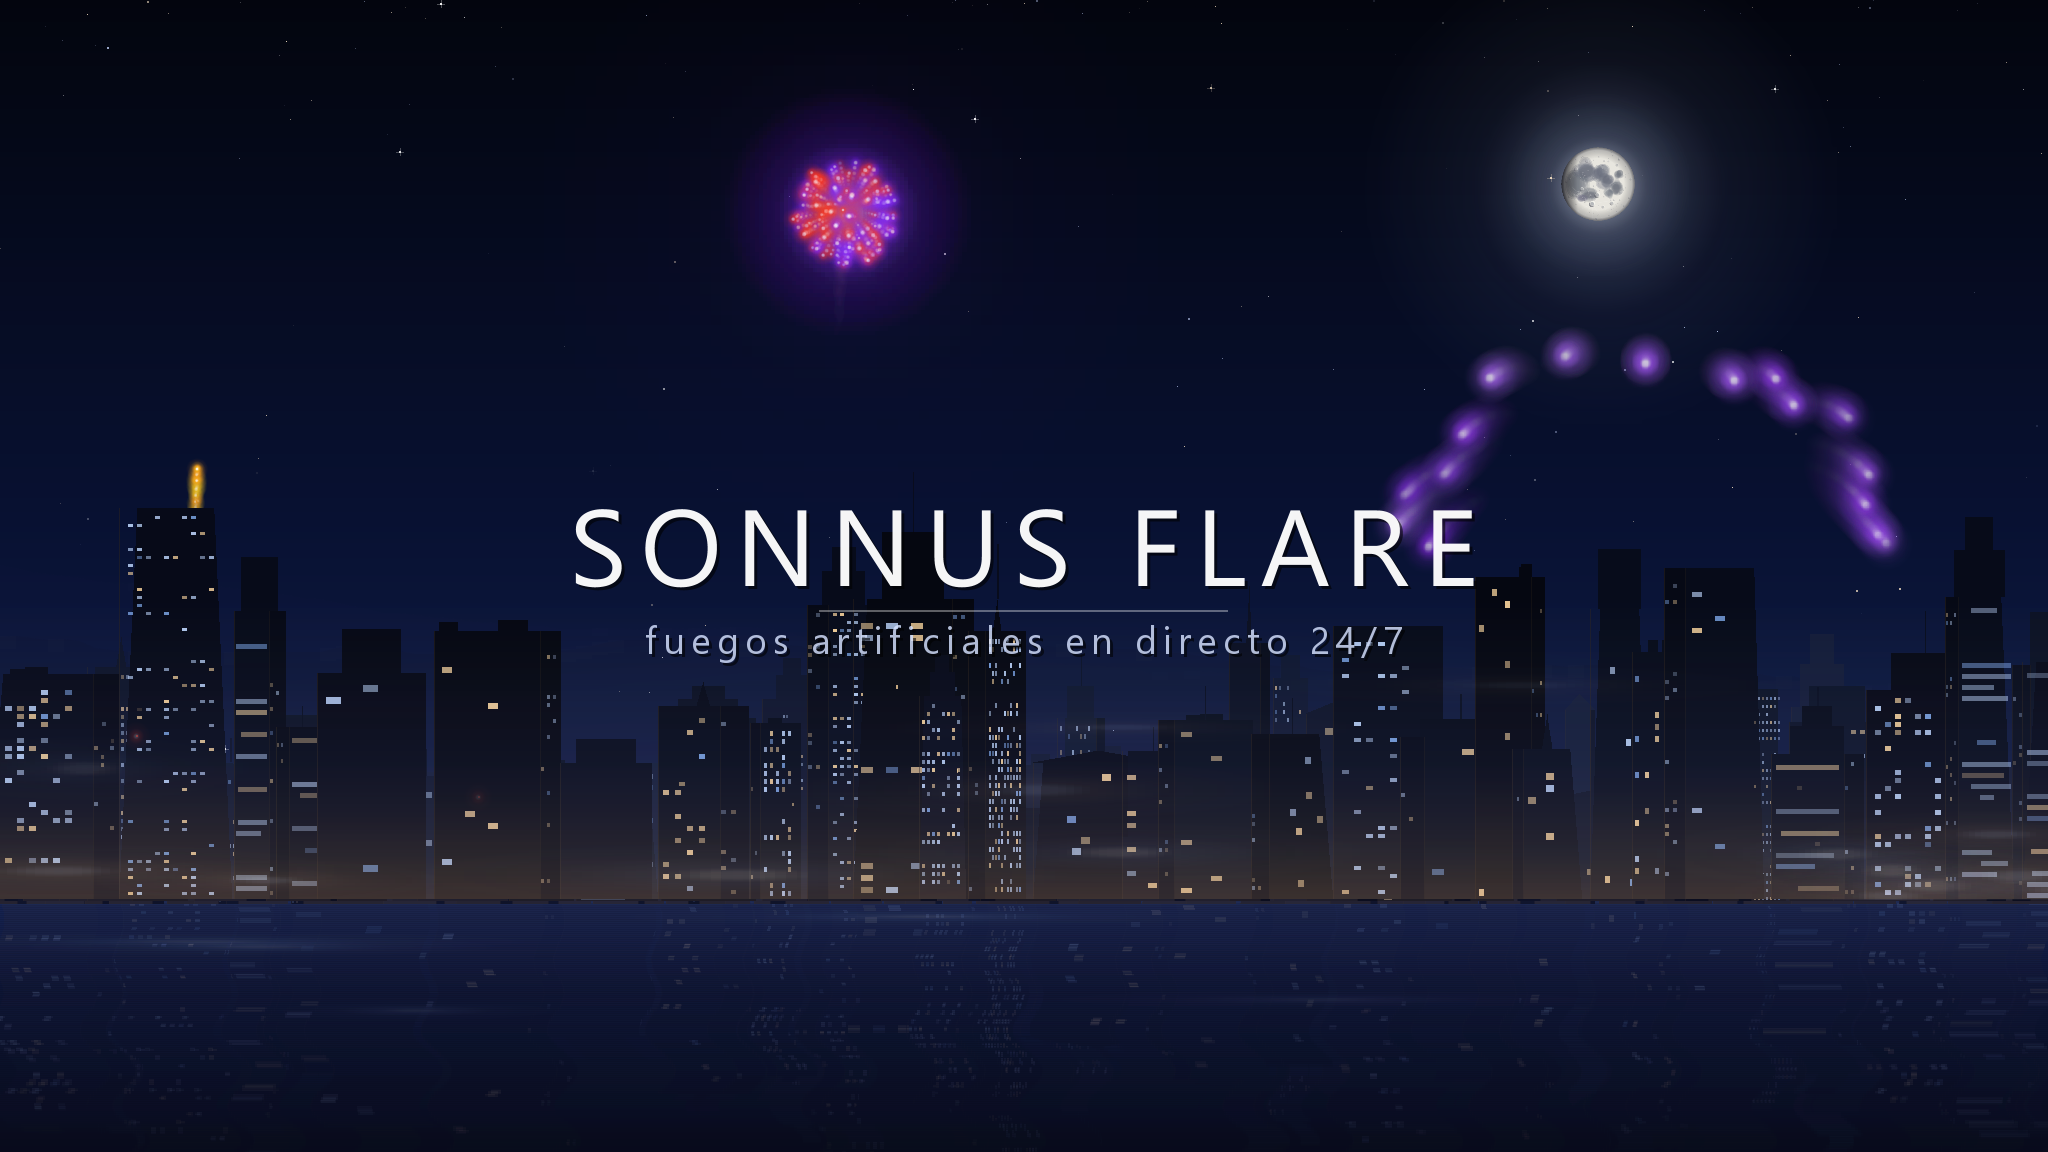
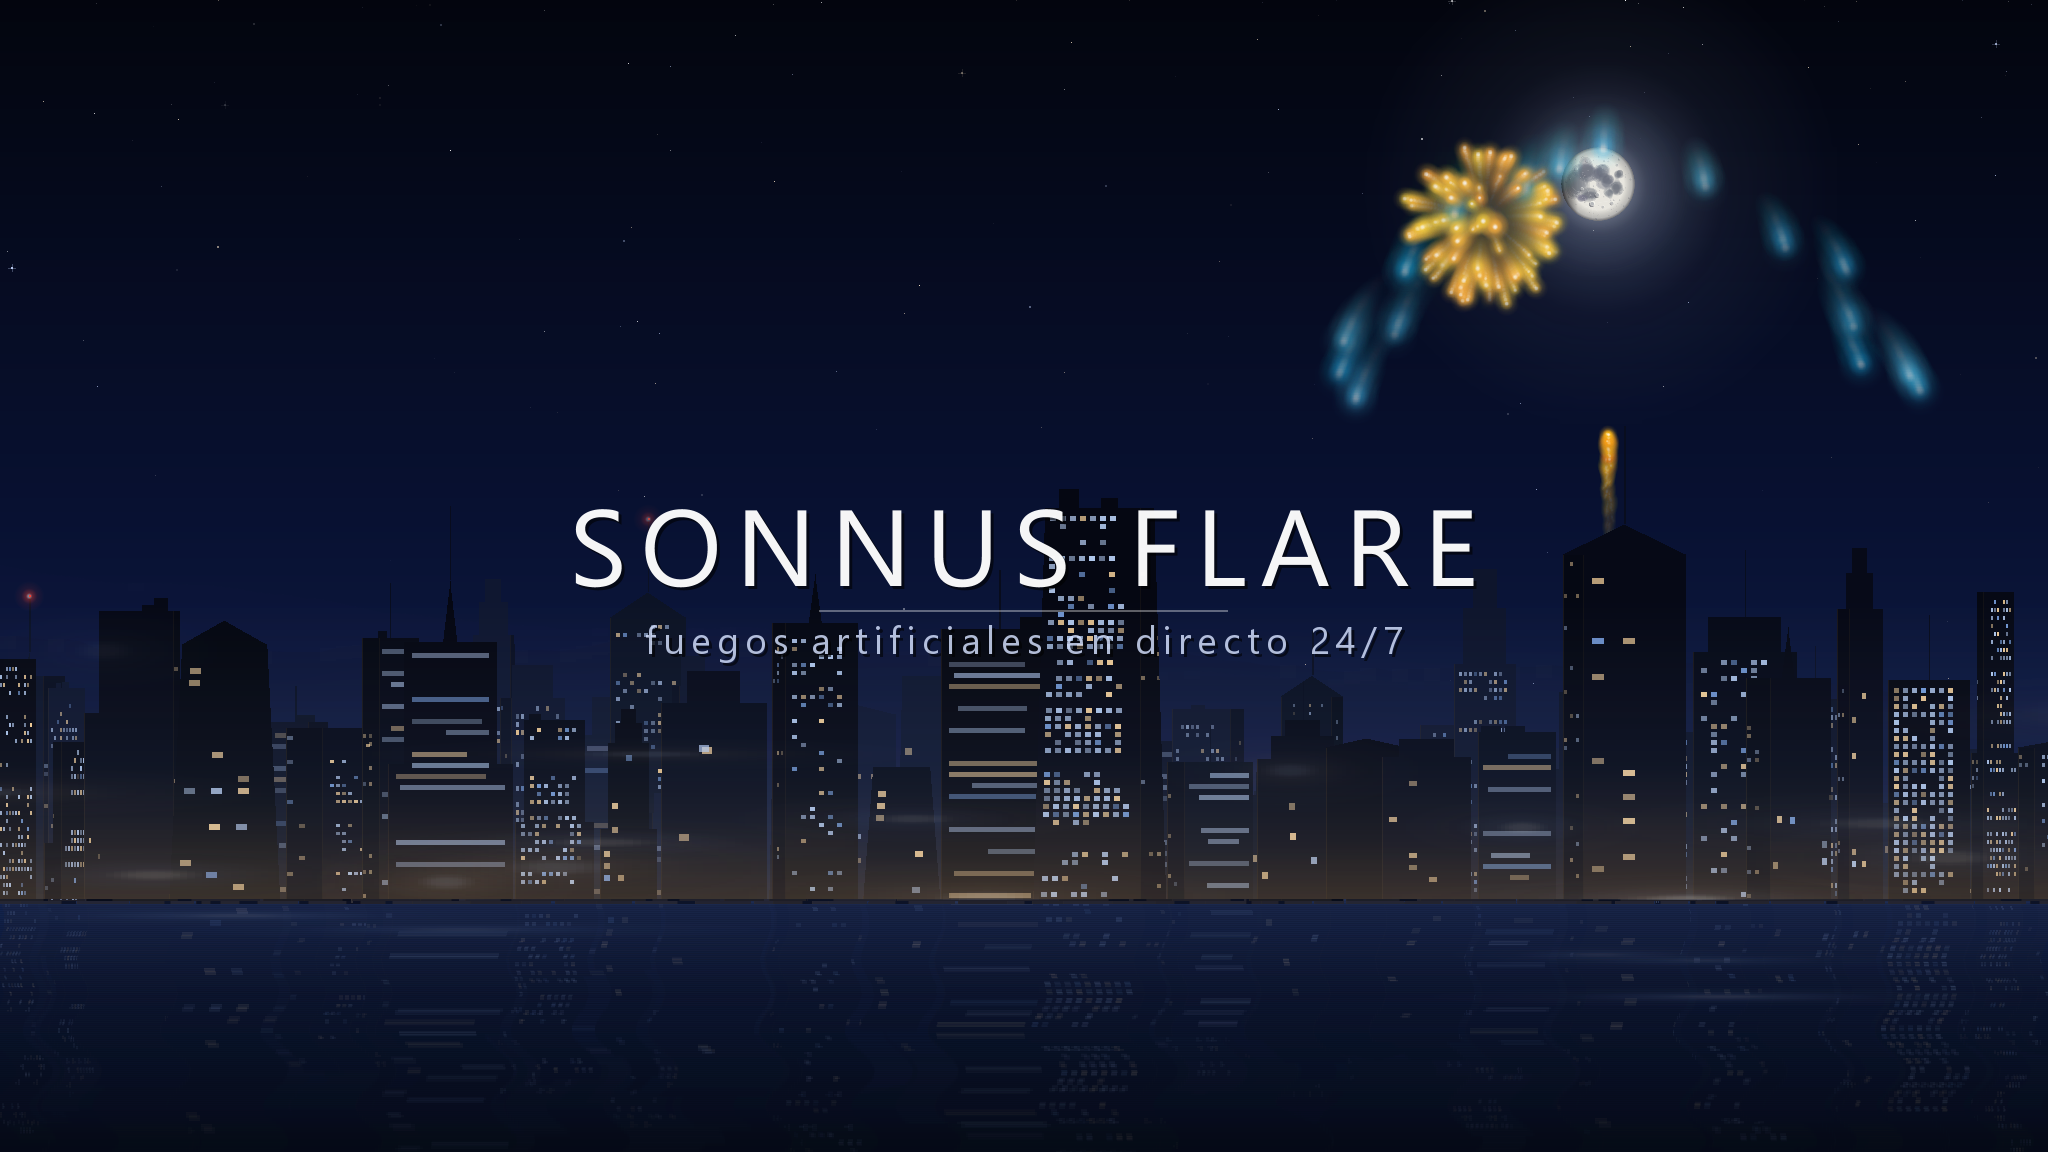
Corrige luces fuera del edificio y balizas que atravesaban fachadas
Dos fallos visibles, con causas distintas.

LUCES FUERA DEL CONTORNO. Al anadir las torres afiladas cree sangriaEn()
para que las ventanas respetaran el estrechamiento y nunca llegue a
llamarlo: las ventanas se seguian colocando sobre el ancho de la base y
sobresalian por los lados. Ademas la cara lateral, la luz de canto y el
remate usaban tambien el ancho de la base.

Arreglado de dos formas a la vez, porque ir sitio por sitio dejaba siempre
alguno fuera: todo lo que va sobre la fachada se recorta ahora al contorno
del cuerpo, y el remate, que por diseno sobresale y no puede recortarse, se
apoya en el ancho de la CIMA en vez de en el de la base.

Verificado a nivel de pixel, no a ojo: un test recorre cada columna de la
capa horneada buscando huecos transparentes entre lo mas alto pintado y el
horizonte, que es la firma de algo flotando suelto. De 50 huecos en ocho
escenas a cero a media altura, que es donde se veian las luces.

BALIZAS ATRAVESANDO EDIFICIOS. Las balizas y las ventanas que parpadean se
recogen mientras se hornean las tres capas pero se pintan en vivo sobre la
imagen ya compuesta, sin profundidad: una de una torre del fondo se dibujaba
encima del edificio que deberia ocultarla.

Ahora se anota el color que tenia su pixel justo despues de dibujar SU capa;
si al terminar es otro, algo se le puso delante y se descarta. El tope se
aplica DESPUES de filtrar: aplicarlo al recoger llenaba el cupo con la capa
[…]

diff --git a/src/j4f/Escenario.java b/src/j4f/Escenario.java
@@ -34,6 +34,15 @@ public class Escenario {
     private static final int NUM_ESTRELLAS = 190;
     private static final int NUM_ESTRELLAS_CRUZ = 8;
     private static final int MAX_VENTANAS_VIVAS = 14;
+    /**
+     * Candidatas que se recogen antes de filtrar.
+     *
+     * El tope final se aplica DESPUES de descartar las tapadas. Aplicarlo al
+     * recoger llenaba el cupo con la capa del fondo, que se dibuja primero, y
+     * las de delante la tapaban casi entera: quedaba una baliza por escena.
+     */
+    private static final int CANDIDATAS_VIVAS = 90;
+    private static final int CANDIDATAS_BALIZAS = 40;
     private static final int MAX_BALIZAS = 4;
     private static final int NUM_BRILLOS_AGUA = 5;
     /** Jirones de niebla que se arrastran entre los edificios. */
@@ -656,13 +665,31 @@ public class Escenario {
         List<int[]> balizas = new ArrayList<int[]>();
 
         // De la mas lejana a la mas cercana: las de delante tapan a las de atras.
+        //
+        // Las balizas y las ventanas que parpadean se pintan en vivo sobre
+        // esta imagen ya compuesta, asi que una de una torre del fondo se
+        // dibujaba encima del edificio que deberia ocultarla. Para saber cual
+        // ha quedado tapada se anota el color que tenia su pixel justo despues
+        // de dibujar SU capa; si al terminar es otro, se le puso algo delante.
         for (int capa = 0; capa < CAPAS_CIUDAD; capa++) {
+            int nv = vivas.size();
+            int nb = balizas.size();
             pintarCapaCiudad(g, capa, vivas, balizas);
+            for (int i = nv; i < vivas.size(); i++) {
+                int[] v = vivas.get(i);
+                v[4] = img.getRGB(limitar(v[0] + v[2] / 2, 0, ancho - 1),
+                        limitar(v[1] + v[3] / 2, 0, alto - 1));
+            }
+            for (int i = nb; i < balizas.size(); i++) {
+                int[] b = balizas.get(i);
+                b[2] = img.getRGB(limitar(b[0], 0, ancho - 1),
+                        limitar(b[1], 0, alto - 1));
+            }
         }
 
         g.dispose();
-        volcarVentanas(vivas);
-        volcarBalizas(balizas);
+        volcarVentanas(img, vivas);
+        volcarBalizas(img, balizas);
         return img;
     }
 
@@ -759,7 +786,15 @@ public class Escenario {
                 alturaRetranqueo = (int) Math.round(h * Azar.entre(0.35, 0.65));
                 mermaRetranqueo = Azar.entre(0.16, 0.34);
             }
-            rellenarCuerpo(g, x, cima, w, h, merma, alturaRetranqueo, mermaRetranqueo);
+            Shape cuerpo = formaCuerpo(x, cima, w, h, merma, alturaRetranqueo,
+                    mermaRetranqueo);
+            // Todo lo que va sobre la fachada se recorta al contorno. Ir
+            // corrigiendo sitio por sitio (ventanas, cara lateral, luz de
+            // canto) dejaba siempre alguno fuera y aparecian luces flotando
+            // junto a las torres afiladas. Con el recorte no se escapa nada.
+            Shape recorteEdificio = g.getClip();
+            g.clip(cuerpo);
+            g.fill(cuerpo);
 
             // Cara lateral: un edificio visto de esquina ensena dos caras, y
             // la que no mira al observador va mas oscura. Es lo que le da
@@ -798,12 +833,26 @@ public class Escenario {
                     (int) (70 + 60 * cercania)));
             g.fillRect(x, cima, 1, h);
 
-            pintarRemate(g, x, cima, w, h, base, cercania, balizas);
+            // El remate sale por encima de la cima, asi que va sin recorte.
+            // Pero tiene que apoyarse en el ancho de la CIMA, no en el de la
+            // base: en una torre afilada, coronarla con el ancho de abajo deja
+            // agujas y maquinaria flotando fuera del edificio.
+            g.setClip(recorteEdificio);
+            int sangriaCima = sangriaEn(cima, h, w, cima, merma,
+                    alturaRetranqueo, mermaRetranqueo);
+            pintarRemate(g, x + sangriaCima, cima, w - 2 * sangriaCima, h,
+                    base, cercania, balizas);
 
             if (capa > 0) {
+                // Recortadas al cuerpo tambien: la sangria coloca bien las
+                // columnas, pero el recorte es el que garantiza que ninguna
+                // se salga por un caso no previsto.
+                g.clip(cuerpo);
                 pintarVentanas(g, x, cima, w, h, pisoAlto, minVentana,
                         vivas, cercania, calima, ladoOscuroIzquierda,
-                        ladoOscuroDerecha);
+                        ladoOscuroDerecha, merma, alturaRetranqueo,
+                        mermaRetranqueo);
+                g.setClip(recorteEdificio);
             }
             // A veces el siguiente se mete por delante: en una ciudad los
             // edificios se tapan entre si, no van en fila india.
@@ -820,11 +869,10 @@ public class Escenario {
      * afilada de una caja, y a esta distancia esa silueta pesa mas que
      * cualquier detalle de la fachada.
      */
-    private void rellenarCuerpo(Graphics2D g, int x, int cima, int w, int h,
+    private Shape formaCuerpo(int x, int cima, int w, int h,
             double merma, int alturaRetranqueo, double mermaRetranqueo) {
         if (merma <= 0 && alturaRetranqueo <= 0) {
-            g.fillRect(x, cima, w, h);
-            return;
+            return new java.awt.Rectangle(x, cima, w, h);
         }
         java.awt.Polygon cuerpo = new java.awt.Polygon();
         int base = cima + h;
@@ -844,7 +892,7 @@ public class Escenario {
             cuerpo.addPoint(x + w - s, cima);
         }
         cuerpo.addPoint(x + w, base);
-        g.fill(cuerpo);
+        return cuerpo;
     }
 
     /** Cuanto hay que meterse por cada lado a la altura dada. */
@@ -931,8 +979,8 @@ public class Escenario {
                 if (arriba - ym > 0) {
                     g.setColor(Destello.mezclar(base, EDIFICIO_CLARO, 0.6f));
                     g.fillRect(xm, ym, Azar.probabilidad(0.5) ? 1 : 2, arriba - ym);
-                    if (balizas.size() < MAX_BALIZAS && Azar.probabilidad(0.75)) {
-                        balizas.add(new int[]{xm, ym});
+                    if (balizas.size() < CANDIDATAS_BALIZAS && Azar.probabilidad(0.75)) {
+                        balizas.add(new int[]{xm, ym, 0});
                     }
                 }
             }
@@ -982,7 +1030,8 @@ public class Escenario {
      */
     private void pintarVentanas(Graphics2D g, int x, int y, int w, int h,
             int pisoAlto, int minVentana, List<int[]> vivas,
-            double cercania, float calima, int ladoIzq, int ladoDer) {
+            double cercania, float calima, int ladoIzq, int ladoDer,
+            double merma, int alturaRetranqueo, double mermaRetranqueo) {
         g.setPaint(null);
         // La cara lateral oscura no lleva ventanas encendidas: es la que no
         // mira al observador, y iluminarla desharia el volumen.
@@ -995,11 +1044,13 @@ public class Escenario {
         if (tipo == TIPO_OSCURO) {
             // Unas pocas luces sueltas y poco mas: tambien hace falta que
             // algunos edificios esten a oscuras para que los demas destaquen.
-            pintarLucesSueltas(g, x, y, w, h, pisoAlto, cercania, calima);
+            pintarLucesSueltas(g, x, y, w, h, pisoAlto, cercania, calima,
+                    merma, alturaRetranqueo, mermaRetranqueo);
             return;
         }
         if (tipo == TIPO_CRISTAL) {
-            pintarBandasCristal(g, x, y, w, h, pisoAlto, cercania, calima);
+            pintarBandasCristal(g, x, y, w, h, pisoAlto, cercania, calima,
+                    merma, alturaRetranqueo, mermaRetranqueo);
             return;
         }
 
@@ -1030,12 +1081,17 @@ public class Escenario {
                 if (!plantaViva && !Azar.probabilidad(densidad)) {
                     continue;
                 }
-                int vx = x + margen + c * paso;
-                if (vx + vw > x + w - margen) {
+                // Sangria de la planta: en un edificio que se afila, el ancho
+                // util mengua al subir. Sin esto las ventanas se salian del
+                // contorno y quedaban luces flotando fuera del edificio.
+                int sang = sangriaEn(y, h, w, fy, merma, alturaRetranqueo,
+                        mermaRetranqueo);
+                int vx = x + sang + margen + c * paso;
+                if (vx + vw > x + w - sang - margen) {
                     continue;
                 }
-                if (vivas.size() < MAX_VENTANAS_VIVAS && Azar.probabilidad(0.02)) {
-                    vivas.add(new int[]{vx, fy, vw, vh});
+                if (vivas.size() < CANDIDATAS_VIVAS && Azar.probabilidad(0.02)) {
+                    vivas.add(new int[]{vx, fy, vw, vh, 0});
                     continue;
                 }
                 g.setColor(colorVentana(oficinas, cercania, calima));
@@ -1051,7 +1107,8 @@ public class Escenario {
      * a distancia la diferencia se nota mas que ningun otro detalle.
      */
     private void pintarBandasCristal(Graphics2D g, int x, int y, int w, int h,
-            int pisoAlto, double cercania, float calima) {
+            int pisoAlto, double cercania, float calima,
+            double merma, int alturaRetranqueo, double mermaRetranqueo) {
         int margen = Math.max(1, w / 14);
         int alturaBanda = Math.max(2, (int) Math.round(pisoAlto * 1.4));
         int grosor = Math.max(1, (int) Math.round(alturaBanda * 0.42));
@@ -1060,9 +1117,11 @@ public class Escenario {
                 continue;   // planta sin luz
             }
             // La banda no llega siempre de lado a lado: se interrumpe.
-            int desde = x + margen + (Azar.probabilidad(0.35)
+            int sang = sangriaEn(y, h, w, fy, merma, alturaRetranqueo,
+                    mermaRetranqueo);
+            int desde = x + sang + margen + (Azar.probabilidad(0.35)
                     ? (int) Math.round(w * Azar.entre(0.0, 0.35)) : 0);
-            int hasta = x + w - margen - (Azar.probabilidad(0.35)
+            int hasta = x + w - sang - margen - (Azar.probabilidad(0.35)
                     ? (int) Math.round(w * Azar.entre(0.0, 0.35)) : 0);
             if (hasta - desde < 2) {
                 continue;
@@ -1112,15 +1171,21 @@ public class Escenario {
 
     /** Edificio casi apagado: cuatro luces sueltas y nada mas. */
     private void pintarLucesSueltas(Graphics2D g, int x, int y, int w, int h,
-            int pisoAlto, double cercania, float calima) {
+            int pisoAlto, double cercania, float calima,
+            double merma, int alturaRetranqueo, double mermaRetranqueo) {
         // Una o dos luces, rara vez tres. Un edificio a oscuras con cinco
         // ventanas encendidas no esta a oscuras.
         int n = Azar.probabilidad(0.12) ? 0 : Azar.entre(2, 6);
         int vw = Math.max(1, (int) Math.round(w * 0.09));
         int vh = Math.max(1, (int) Math.round(pisoAlto * 0.9));
         for (int i = 0; i < n; i++) {
-            int vx = x + Azar.entre(2, Math.max(3, w - vw - 2));
             int vy = y + Azar.entre(pisoAlto, Math.max(pisoAlto + 1, h - vh));
+            int sang = sangriaEn(y, h, w, vy, merma, alturaRetranqueo,
+                    mermaRetranqueo);
+            if (w - 2 * sang - vw - 4 < 1) {
+                continue;
+            }
+            int vx = x + sang + Azar.entre(2, Math.max(3, w - 2 * sang - vw - 2));
             g.setColor(colorVentana(Azar.probabilidad(0.3), cercania, calima));
             g.fillRect(vx, vy, vw, vh);
         }
@@ -1146,8 +1211,25 @@ public class Escenario {
         return Destello.alfa(luz, op);
     }
 
-    private void volcarVentanas(List<int[]> vivas) {
-        int n = vivas.size();
+    /**
+     * Fija las ventanas que parpadean, descartando las que quedan tapadas.
+     *
+     * Mismo problema que las balizas: se recogen durante el horneado de las
+     * tres capas pero se pintan en vivo sobre la imagen ya compuesta, asi que
+     * una ventana de una torre del fondo parpadeaba encima del edificio que
+     * la deberia ocultar.
+     */
+    private void volcarVentanas(BufferedImage capa, List<int[]> vivas) {
+        List<int[]> visibles = new ArrayList<int[]>();
+        for (int i = 0; i < vivas.size(); i++) {
+            int[] v = vivas.get(i);
+            // Se comprueba en el centro de la ventana, no en su esquina.
+            if (!cambioElPixel(capa, v[0] + v[2] / 2, v[1] + v[3] / 2, v[4])) {
+                visibles.add(v);
+            }
+        }
+        // El tope, ahora si, sobre las que de verdad se ven.
+        int n = Math.min(visibles.size(), MAX_VENTANAS_VIVAS);
         venX = new int[n];
         venY = new int[n];
         venW = new int[n];
@@ -1155,7 +1237,7 @@ public class Escenario {
         venFase = new double[n];
         venVel = new double[n];
         for (int i = 0; i < n; i++) {
-            int[] v = vivas.get(i);
+            int[] v = visibles.get(i);
             venX[i] = v[0];
             venY[i] = v[1];
             venW[i] = v[2];
@@ -1165,17 +1247,70 @@ public class Escenario {
         }
     }
 
-    private void volcarBalizas(List<int[]> balizas) {
-        int n = balizas.size();
+    /**
+     * Cierto si la ventana ha quedado cubierta por un edificio posterior.
+     *
+     * Se apoya en que una ventana encendida deja pixeles claros: si donde
+     * estaba ahora hay fachada oscura, es que algo se le puso delante.
+     */
+    private boolean tapadaPorDelante(BufferedImage capa, int x, int y) {
+        if (capa == null || x < 0 || x >= ancho || y < 0 || y >= alto) {
+            return true;
+        }
+        int px = capa.getRGB(x, y);
+        int lum = ((px >> 16 & 0xFF) * 30 + (px >> 8 & 0xFF) * 59 + (px & 0xFF) * 11) / 100;
+        return lum < 60;
+    }
+
+    /**
+     * Fija las balizas de antena, descartando las que quedan tapadas.
+     *
+     * Se recogen mientras se hornean las tres capas, pero se pintan en vivo
+     * encima de la imagen ya compuesta: una baliza de una torre del fondo se
+     * dibujaba sobre el edificio que deberia ocultarla, y se veia el punto
+     * rojo atravesando la fachada de delante.
+     *
+     * Para saber si esta tapada se mira el ancho de lo opaco a su alrededor:
+     * un mastil tiene uno o dos pixeles y deja aire a los lados; si a seis
+     * pixeles a ambos lados sigue habiendo relleno, lo que hay ahi es un
+     * edificio por delante y la baliza sobra.
+     */
+    private void volcarBalizas(BufferedImage capa, List<int[]> balizas) {
+        List<int[]> visibles = new ArrayList<int[]>();
+        for (int i = 0; i < balizas.size(); i++) {
+            int[] b = balizas.get(i);
+            if (!cambioElPixel(capa, b[0], b[1], b[2])) {
+                visibles.add(b);
+            }
+        }
+        int n = Math.min(visibles.size(), MAX_BALIZAS);
         balX = new int[n];
         balY = new int[n];
         balFase = new double[n];
         for (int i = 0; i < n; i++) {
-            int[] b = balizas.get(i);
+            int[] b = visibles.get(i);
             balX[i] = b[0];
             balY[i] = b[1];
             balFase[i] = Azar.angulo();
         }
+    }
+
+    /** Cierto si en esa cota hay fachada ancha, y no el mastil de la baliza. */
+    /**
+     * Cierto si el pixel dejo de ser el que era al anotarlo.
+     *
+     * Si cambio es porque una capa posterior pinto encima, o sea que hay un
+     * edificio por delante y ese punto de luz no debe verse.
+     */
+    private boolean cambioElPixel(BufferedImage capa, int x, int y, int referencia) {
+        if (capa == null || x < 0 || x >= ancho || y < 0 || y >= alto) {
+            return true;
+        }
+        return capa.getRGB(x, y) != referencia;
+    }
+
+    private static int limitar(int v, int min, int max) {
+        return v < min ? min : (v > max ? max : v);
     }
 
     // ------------------------------------------------------------------
